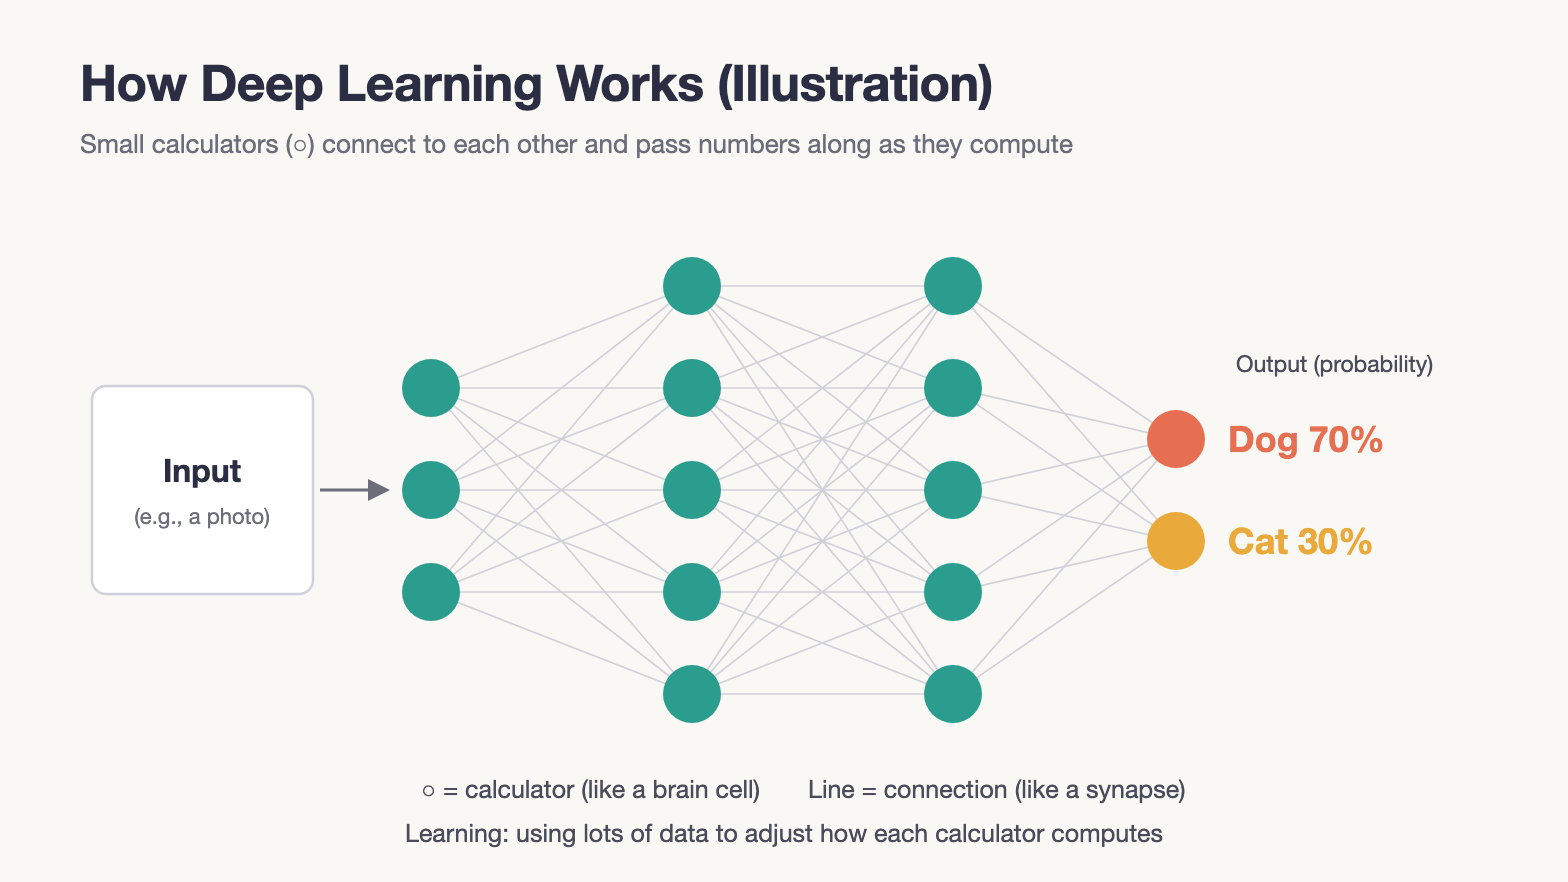
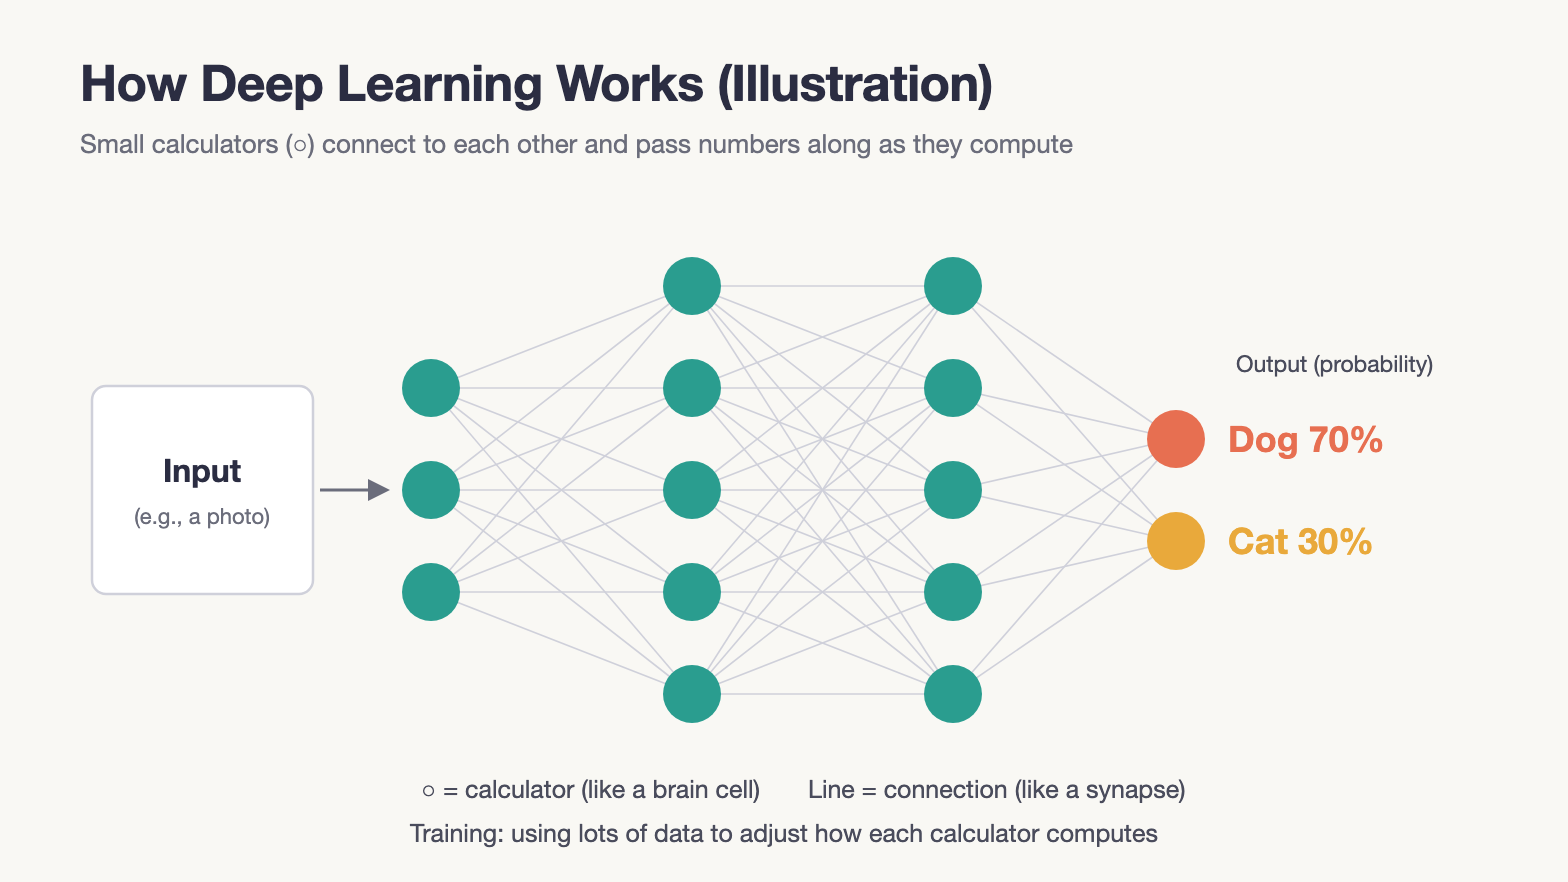
Refine the English translation of the music and AI post
Use "training" consistently, fix the "regular employee" mistranslation,
and repair awkward sentences. Relabel figure 1 to match.

Changed region(s): [[0.25, 0.9184, 0.75, 0.9796]]

diff --git a/data/blog/en/202612-music-and-ai.md b/data/blog/en/202612-music-and-ai.md
@@ -30,15 +30,15 @@ Before ChatGPT, the mainstream AI model was deep learning. Its defining feature 
 
 ![How deep learning works (illustration)](/static/images/en/2026_12_01_01.png)
 
-The process that decides what calculation each calculator performs is called learning (training). Before ChatGPT, this process was tuned for a specific purpose (telling dogs from cats, machine translation, etc.). Incidentally, one of the visions of artificial general intelligence that people once aimed for was the so-called "whole brain architecture," which would recreate the mechanisms of the entire brain with deep learning. It feels like a different era now.
+The process that decides what calculation each calculator performs is called training. Before ChatGPT, this process was tuned for a specific purpose (telling dogs from cats, machine translation, etc.). Incidentally, one of the visions of artificial general intelligence that people once aimed for was the so-called "whole brain architecture," which would recreate the mechanisms of the entire brain with deep learning. It feels like a different era now.
 
-So how did this change after ChatGPT? In fact, the concept itself hasn't changed much; what changed significantly was how data is handled and how the model is structured (if you want to know more, try searching for "Transformer"). This turned out to work extremely well with large-scale data, and experiments revealed that "the larger the scale, the better the performance." This is called the scaling law.
+So how did this change after ChatGPT? In fact, the concept itself hasn't changed much; what changed significantly was how data is handled and how the model is structured (if you want to know more, try searching for "Transformer"). This turned out to work extremely well with large-scale data, and experiments revealed that "the larger the scale, the better the performance." These empirical rules are called scaling laws.
 
 ![Scaling laws](/static/images/en/2026_12_01_02.png)
 
-As the scaling law became widely known, AI developed explosively. This is because the mechanism of AI itself largely follows that of conventional deep learning (or rather, it is a kind of deep learning), so anyone with enough computing resources and data can push AI development forward. That is why OpenAI, which took the world by storm with ChatGPT, didn't end up dominating alone, and startups like Anthropic and tech giants like Google have entered the field one after another.
+As scaling laws became widely known, AI developed explosively. This is because the mechanism of AI itself largely follows that of conventional deep learning (or rather, it is a kind of deep learning), so anyone with enough computing resources and data can push AI development forward. That is why OpenAI, which took the world by storm with ChatGPT, didn't end up dominating alone, and startups like Anthropic and tech giants like Google have entered the field one after another.
 
-In other words, if you look at today's AI broadly, understanding deep learning is the quickest way to grasp its characteristics. It is a collection of calculators modeled on the human brain, where various calculations are performed at each synapse in response to an input to produce an output. What I want to emphasize here are two points: "results are output based on probability" and "pre-training has a major effect on the results themselves."
+In other words, if you look at today's AI broadly, understanding deep learning is the quickest way to grasp its characteristics. It is a collection of calculators modeled on the human brain, where various calculations are performed at each synapse in response to an input to produce an output. There are two points I want to emphasize here: "results are output based on probability" and "pre-training has a major effect on the results themselves."
 
 Here is an example of what I mean by results being output based on probability. When classifying dogs and cats, the model might say there is a 70% chance it's a dog and a 30% chance it's a cat. Getting this probability as close to 100% as possible is an easy-to-understand goal.
 
@@ -52,7 +52,7 @@ In the music industry, AI music generation tools such as SUNO are often used. Th
 
 Having read this far, I think you can get a rough sense that AI can make mistakes and that it tends to lean toward certain kinds of output.
 
-The other thing I want to emphasize is learning. Each company uses huge amounts of data to adjust what calculation each synapse performs. In other words, if the source data is wrong, the reliability of the probabilistic results naturally goes down.
+The other thing I want to emphasize is training. Each company uses huge amounts of data to adjust what calculation each synapse performs. In other words, if the source data is wrong, the reliability of the probabilistic results naturally goes down.
 
 Choral conductor Kota Yanagishima has sounded the alarm about this point in [a post on note](https://note.com/yanadgt/n/n81c0c9dd25e5). As I'll discuss later, today's AI has not yet been trained enough on music, and it hasn't been verified enough either. So what would happen if incorrect information spread across the web? Naturally, we can expect the output of AI to lean toward incorrect content as well.
 
@@ -66,13 +66,13 @@ What we should value as a community right now is that writers take responsibilit
 
 If we roughly divide engineers into hardware engineers, who build the machines themselves, and software engineers, who build the software that runs on them, software engineers are probably among the professions most affected by AI.
 
-As the name LLM (Large Language Model) for some of today's AI suggests, AI can now process large amounts of text data. In other words, retrieving and understanding huge amounts of source code, deciding how to implement something, and carrying it out are right in its wheelhouse. As of late November 2026, it has made headlines that the Riemann hypothesis, a famously difficult problem in mathematics, has been proven with the help of AI, a feat that no mathematician up to today had been able to achieve. I think it's easy to understand if you imagine a top-class talent at this level helping me with my work in their area of strength.
+As the name LLM (Large Language Model) for some of today's AI suggests, AI can now process large amounts of text data. In other words, retrieving and understanding huge amounts of source code, deciding how to implement something, and carrying it out are right in its wheelhouse. As of late November 2026, it has made headlines that the Riemann hypothesis, a famously difficult problem in mathematics, has been proven with the help of AI, a feat that no mathematician, past or present, had ever achieved. I think it's easy to understand if you imagine a top-class talent at this level helping me with my work in their area of strength.
 
 Because of this, I now very rarely write source code by hand myself. Instead, new kinds of work have emerged: using the freed-up time for other tasks, having AI work on several tasks in parallel, and making time to study.
 
 If you ask me whether work has gotten easier, the honest answer is not really. When your hands are free, more work comes in to fill the gap. Summing up what many excellent engineers have been saying, relatively few say the amount of work has decreased, and many describe it as the nature of the work having changed: fitting AI into workflows, running multiple tasks at once, building systems so that work can be left to AI, and so on. If you consider that our value lies not just in diligently getting through the task in front of us, but in improving efficiency and reliability so that we can deliver results more reliably and quickly, this outcome makes sense.
 
-In the United States, where employment regulations are loose, large-scale layoffs keep happening, and as a regular employee I can understand them to some extent (though it's hardly something to welcome). In fact, working as a sole proprietor myself, the amount of work I can handle each day has increased explosively. Because employment regulations remain strong in Japan, the impact there is still limited, but it seems inevitable that AI will affect every industry in various ways from here on.
+In the United States, where employment regulations are loose, large-scale layoffs keep happening, and speaking as a worker myself, I can understand them to some extent (though it's hardly welcome news). In fact, working as a sole proprietor myself, the amount of work I can handle each day has increased explosively. Because employment regulations remain strong in Japan, the impact there is still limited, but it seems inevitable that AI will affect every industry in various ways from here on.
 
 ## Music and AI
 
@@ -80,7 +80,7 @@ As a humble musician, I have used AI for music analysis. From an engineer's pers
 
 It's also worth looking at examples of AI composition. [@aug5thmusic](https://x.com/aug5thmusic) benchmarks each new AI model as it comes out by asking it to compose a piece in the style of a particular composer. Of course, recent technological progress has led to better and better pieces being produced, but considering that these same models have the academic ability to pass the University of Tokyo entrance exam at the top of the class with ease, I have to say that there is still room for growth if this is the level of work they produce.
 
-So can we say that AI will stay within a certain level of musical ability from now on? The answer is definitely NO. Training, tuning and the systems around it are simply not sufficient yet, and if, for example, a company seriously built a general-purpose AI composition tool, it could quickly become a game changer. As for performance, besides the example of SUNO mentioned earlier, I expect that a future where more refined classical performances are generated endlessly is not far off. Even if reproducing the acoustic sound you hear live is difficult (because today's listening environments, such as headphones, don't allow for it), a future where we get output comparable to today's human recordings is not far off either.
+So can we say that AI will stay within a certain level of musical ability from now on? The answer is definitely NO. Training, tuning and the systems built around AI are simply not sufficient yet, and if, for example, a company seriously built a general-purpose AI composition tool, it could quickly become a game changer. As for performance, besides the example of SUNO mentioned earlier, I expect that a future where more refined classical performances are generated endlessly is not far off. Even if reproducing the acoustic sound you hear live is difficult (because today's listening environments, such as headphones, don't allow for it), a future where we get output comparable to today's human recordings is not far off either.
 
 Naturally, the question arises: will human creativity be wiped out by AI? Personally, I'm optimistic about this. Taking mathematics as an example, the Riemann hypothesis may have been solved, but there is no news yet of an entirely new field of mathematics being established. As the labels in its history show, classical music has a history of breaking away from, evolving, or reconstructing past styles such as Classicism and Romanticism. As for whether AI can take on this process of destruction and creation, I am currently skeptical.
 
@@ -90,6 +90,6 @@ Furthermore, the fact that singing and playing instruments are full of "experien
 
 ## Closing
 
-Looking back at history, technological progress has had irreversible impacts before. Starting with the invention of the steam engine, the birth of the internet is a more recent example. The explosive development of AI this time seems likely to have a disruptive impact great enough to join this history. There will be some backlash, but I think the most important thing first is to "look at it squarely."
+Looking back at history, technological progress has had irreversible impacts before. Examples range from the invention of the steam engine to, more recently, the birth of the internet. The explosive development of AI this time seems likely to have a disruptive impact great enough to join this history. There will be some backlash, but I think the most important thing first is to "look at it squarely."
 
 Our society will likely continue to change dramatically. But at the same time, some things don't change, and I believe that amid everything that keeps changing, the value of "what doesn't change" will be reaffirmed again and again. As a humble musician, I'll keep hoping that music continues to play its part in society, and that we keep developing it.
